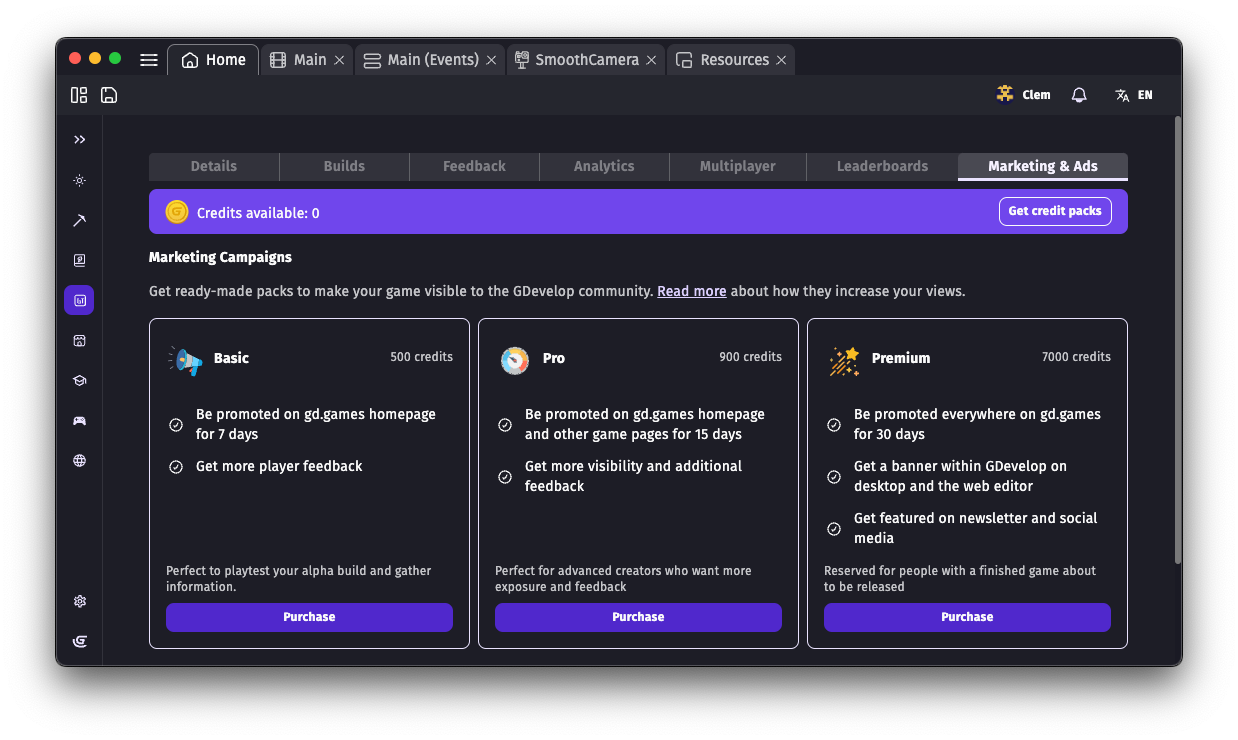
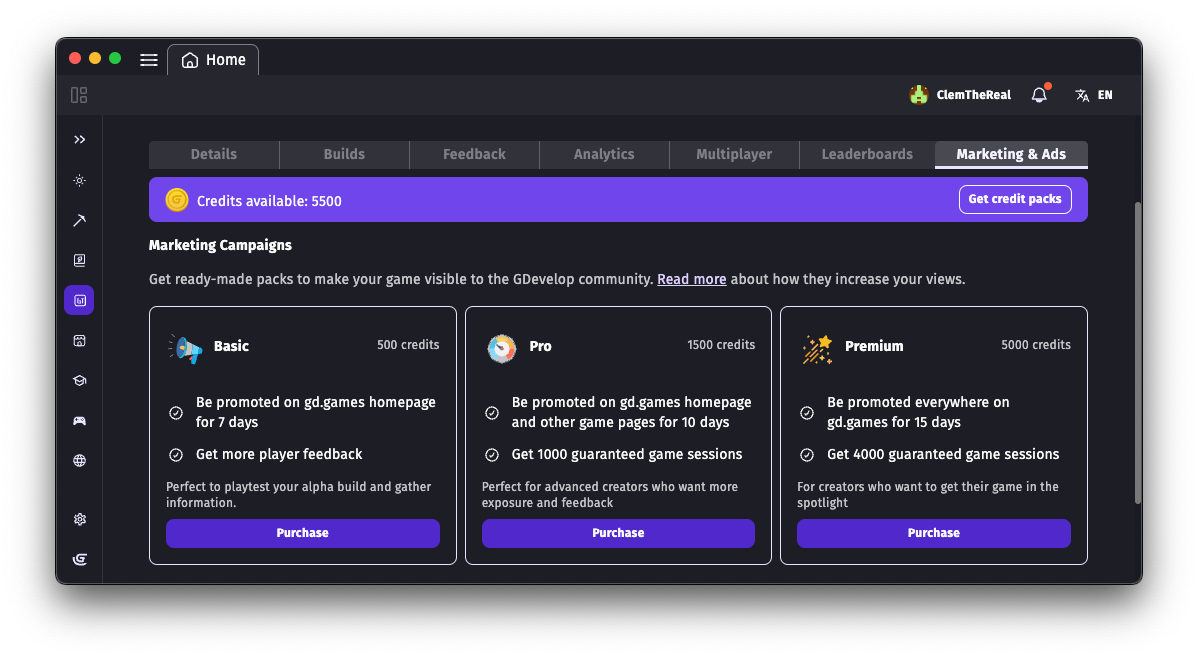
Update marketing campaign screenshot (#233)

Changed region(s): [[0.0309, 0.0304, 0.9574, 0.9422]]

diff --git a/docs/gdevelop5/interface/games-dashboard/marketing/index.md b/docs/gdevelop5/interface/games-dashboard/marketing/index.md
@@ -27,18 +27,3 @@ Learn more about [GDevelop Credits here](/gdevelop5/interface/profile/credits).
 ## Available Packages
 
 ![Marketing Campaigns](/gdevelop5/interface/games-dashboard/marketing/marketing-campaigns.png)
-
-1. Basic Package
-
-   - Featuring on gd.games: Your game will be showcased on GDevelop's game platform for 7 days, generating increased views and feedback. You can extend the featuring period by purchasing an additional package.
-   - Ideal for: Developers looking to gather initial feedback, increase visibility, and engage with the GDevelop community.
-
-2. Pro Package
-
-   - Social Networks and Newsletter Promotion: your game will be promoted across GDevelop's social media channels and newsletters, reaching thousands of players.
-   - Ideal for: Developers seeking a broader audience, social media exposure, and increased visibility within the GDevelop community.
-
-3. Premium Package
-
-   - Dedicated Banner Inside GDevelop App: Your game will have a dedicated promotional banner within the GDevelop app, visible by hundreds of thousands of game creators and players.
-   - Ideal for: Developers aiming for maximum visibility, increased downloads, and a prominent presence within the GDevelop platform.
